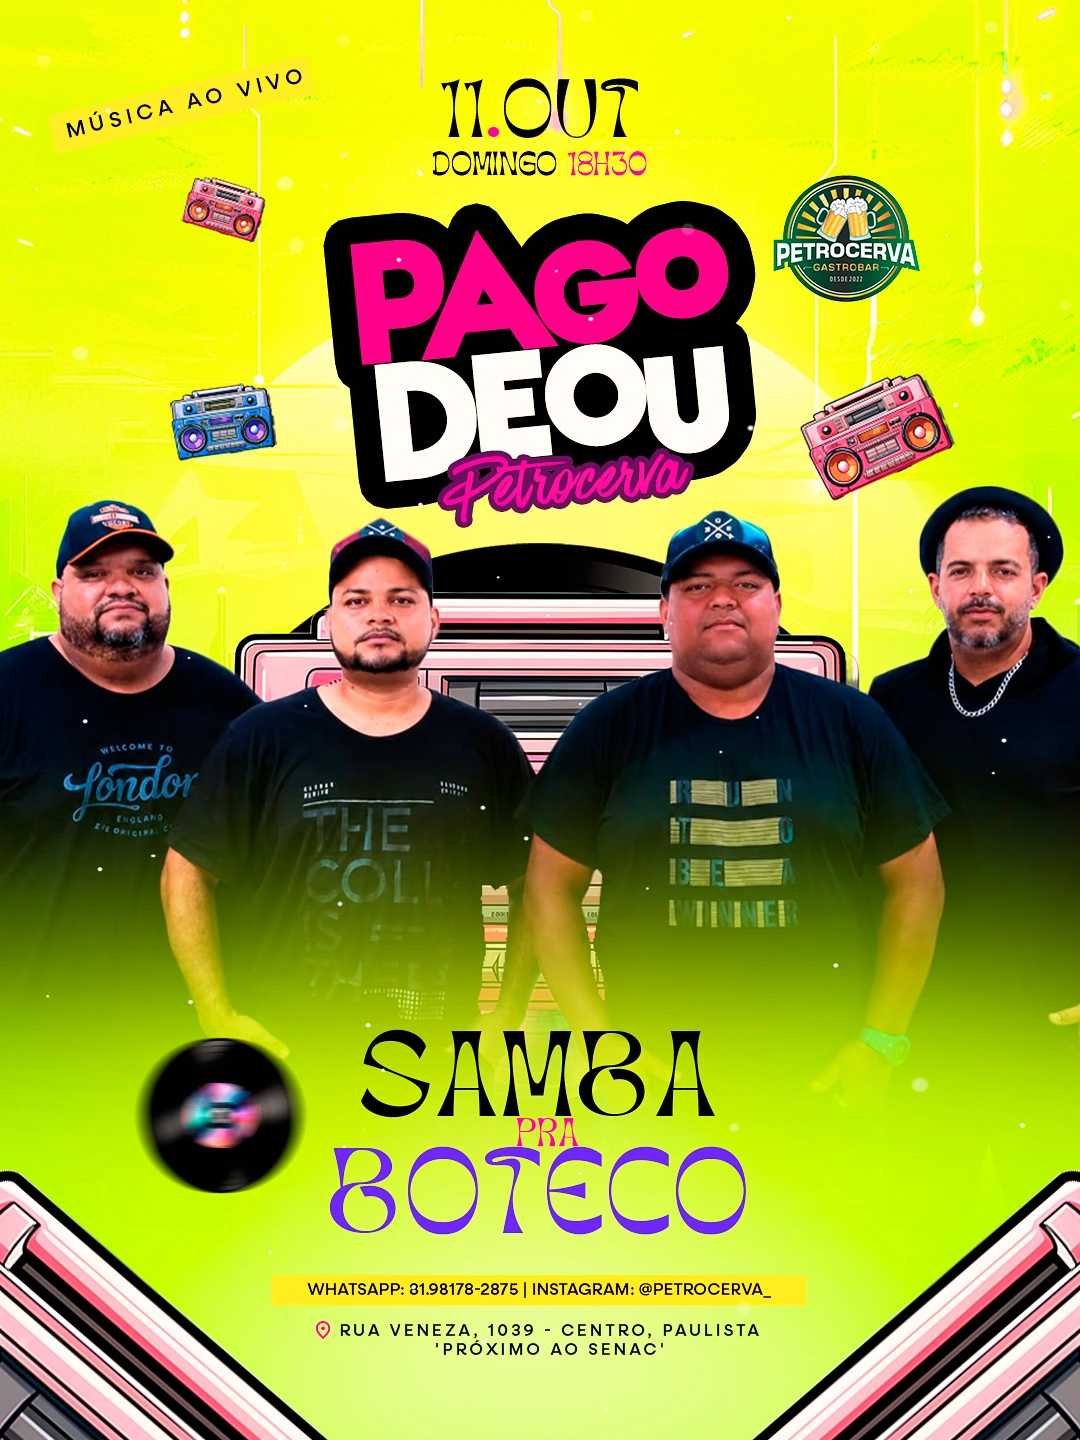
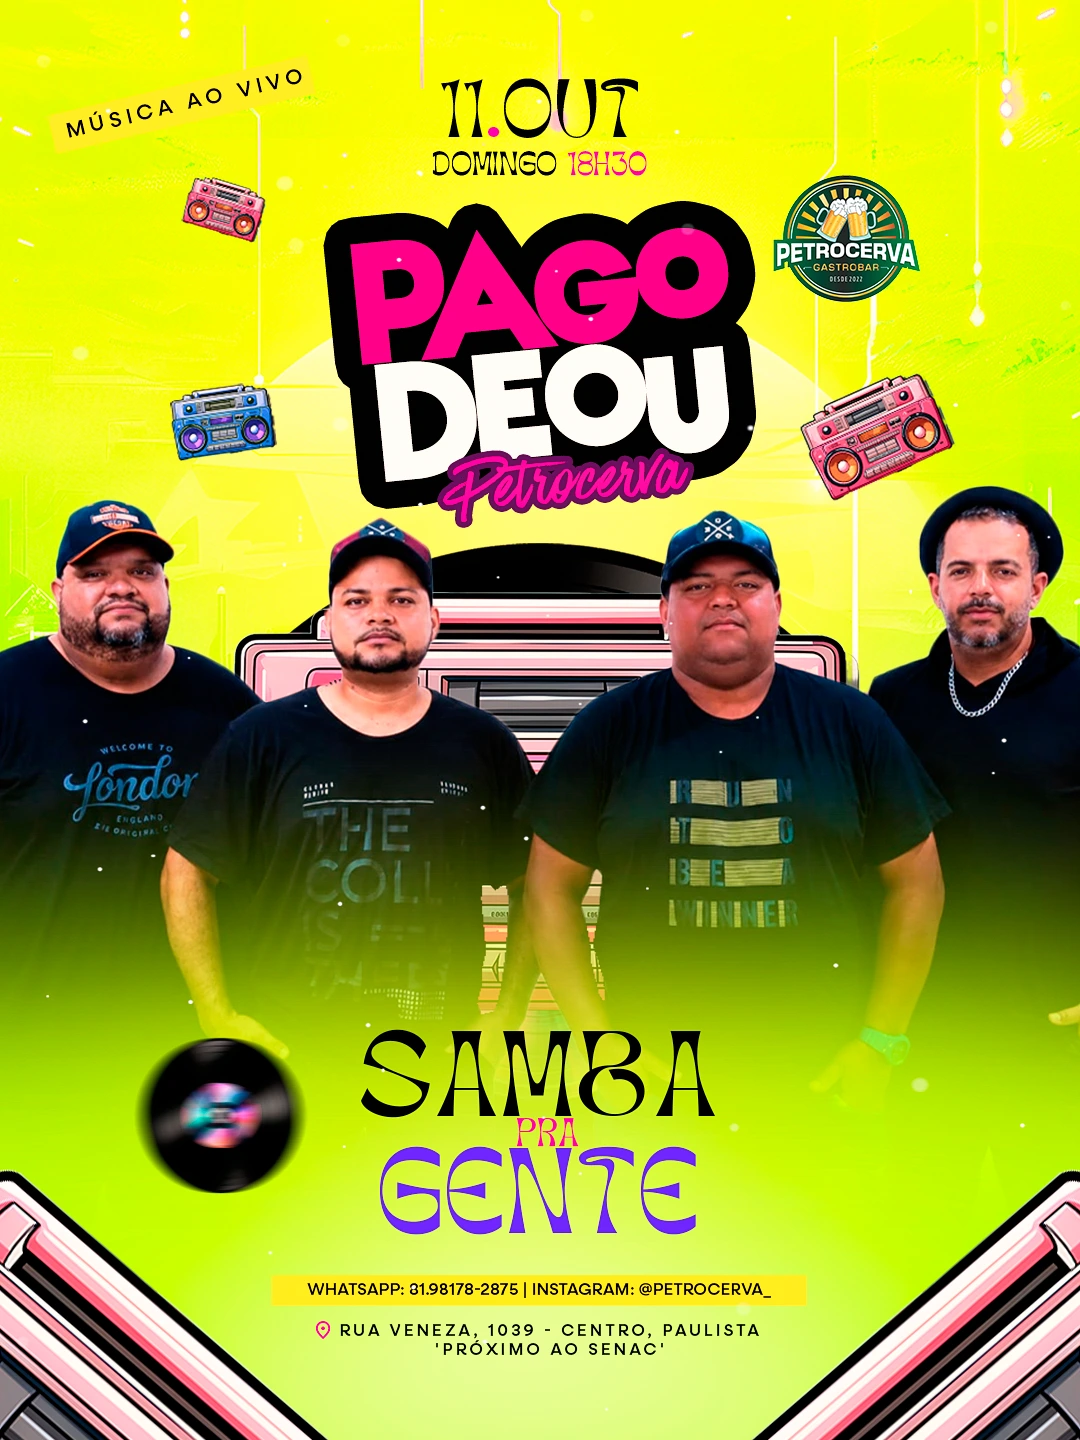
Samba pra gente

Changed region(s): [[0.3056, 0.7812, 0.7028, 0.875]]

diff --git a/index.html b/index.html
@@ -276,7 +276,7 @@
                   <article class="atracao">
                     <div class="atracao__moldura-imagem">
                       <img class="atracao__imagem" src="src/img/programacao-dom.webp"
-                        alt="Cartaz do Pagodeou com o grupo Samba pra Boteco, domingo 11 de outubro às 18h30 no Petrocerva Gastrobar"
+                        alt="Cartaz do Pagodeou com o grupo Samba pra Gente, domingo 11 de outubro às 18h30 no Petrocerva Gastrobar"
                         width="1080" height="1440" loading="lazy">
 
                       <button type="button"
@@ -300,13 +300,13 @@
                     <div class="atracao__informacoes">
                       <p class="atracao__data">Domingo · 11 de outubro</p>
                       <h3 class="atracao__evento">PAGODEOU</h3>
-                      <p class="atracao__artista">Samba pra Boteco</p>
+                      <p class="atracao__artista">Samba pra Gente</p>
                       <div class="atracao__meta">
                         <p class="atracao__horario">18h30</p>
                         <span class="atracao__tema">Pagode</span>
                       </div>
                       <a class="atracao__botao-whatsapp"
-                        href="https://wa.me/5581981782875?text=Ol%C3%A1!%20Quero%20saber%20mais%20sobre%20o%20Pagodeou%20com%20Samba%20pra%20Boteco%20na%20Petrocerva."
+                        href="https://wa.me/5581981782875?text=Ol%C3%A1!%20Quero%20saber%20mais%20sobre%20o%20Pagodeou%20com%20Samba%20pra%20Gente%20na%20Petrocerva."
                         target="_blank" rel="noopener noreferrer">Falar no WhatsApp</a>
                     </div>
                   </article>

diff --git a/programacao.html b/programacao.html
@@ -109,19 +109,19 @@
               aria-label="3 de 3" aria-hidden="true">
               <button type="button" class="slide__figura" data-ampliar aria-haspopup="dialog">
                 <img src="src/img/programacao-dom.webp"
-                  alt="Cartaz do Pagodeou com o grupo Samba pra Boteco, domingo 11 de outubro às 18h30 no Petrocerva Gastrobar"
+                  alt="Cartaz do Pagodeou com o grupo Samba pra Gente, domingo 11 de outubro às 18h30 no Petrocerva Gastrobar"
                   width="1080" height="1440" draggable="false" loading="lazy" decoding="async">
               </button>
               <div class="slide__info">
                 <p class="slide__dia">Domingo · 11 de outubro</p>
                 <p class="slide__evento">PAGODEOU</p>
-                <p class="slide__artista">Samba pra Boteco</p>
+                <p class="slide__artista">Samba pra Gente</p>
                 <div class="slide__meta">
                   <p class="slide__horario">18h30</p>
                   <span class="slide__tema">Pagode</span>
                 </div>
                 <a class="slide__cta"
-                  href="https://wa.me/5581981782875?text=Ol%C3%A1!%20Quero%20saber%20mais%20sobre%20o%20Pagodeou%20com%20Samba%20pra%20Boteco%20na%20Petrocerva."
+                  href="https://wa.me/5581981782875?text=Ol%C3%A1!%20Quero%20saber%20mais%20sobre%20o%20Pagodeou%20com%20Samba%20pra%20Gente%20na%20Petrocerva."
                   target="_blank" rel="noopener noreferrer">
                   <svg class="slide__cta-icone" width="20" height="20" viewBox="0 0 32 32" aria-hidden="true">
                     <path
